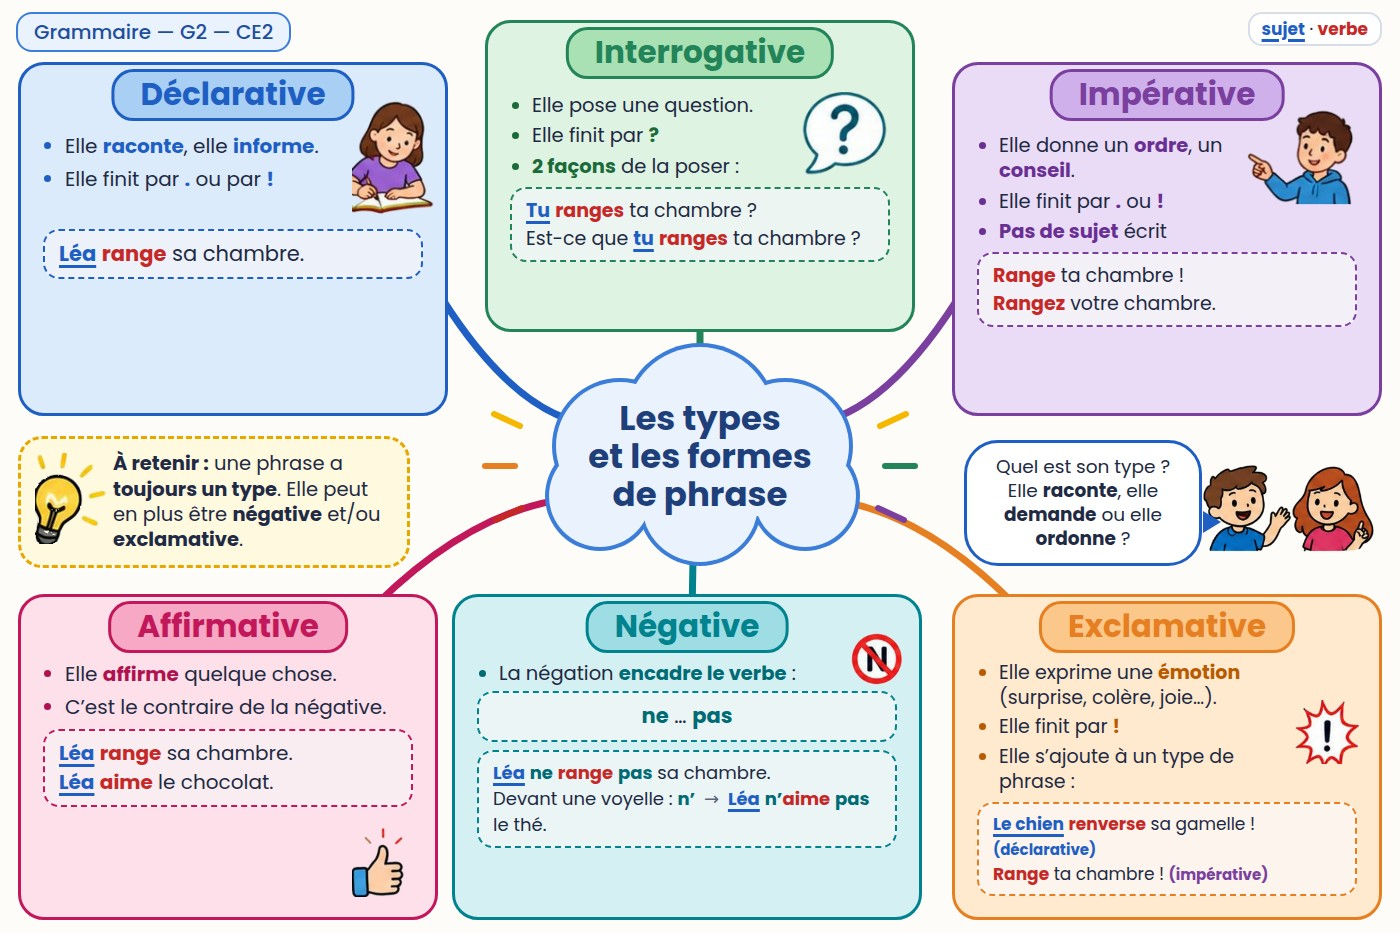
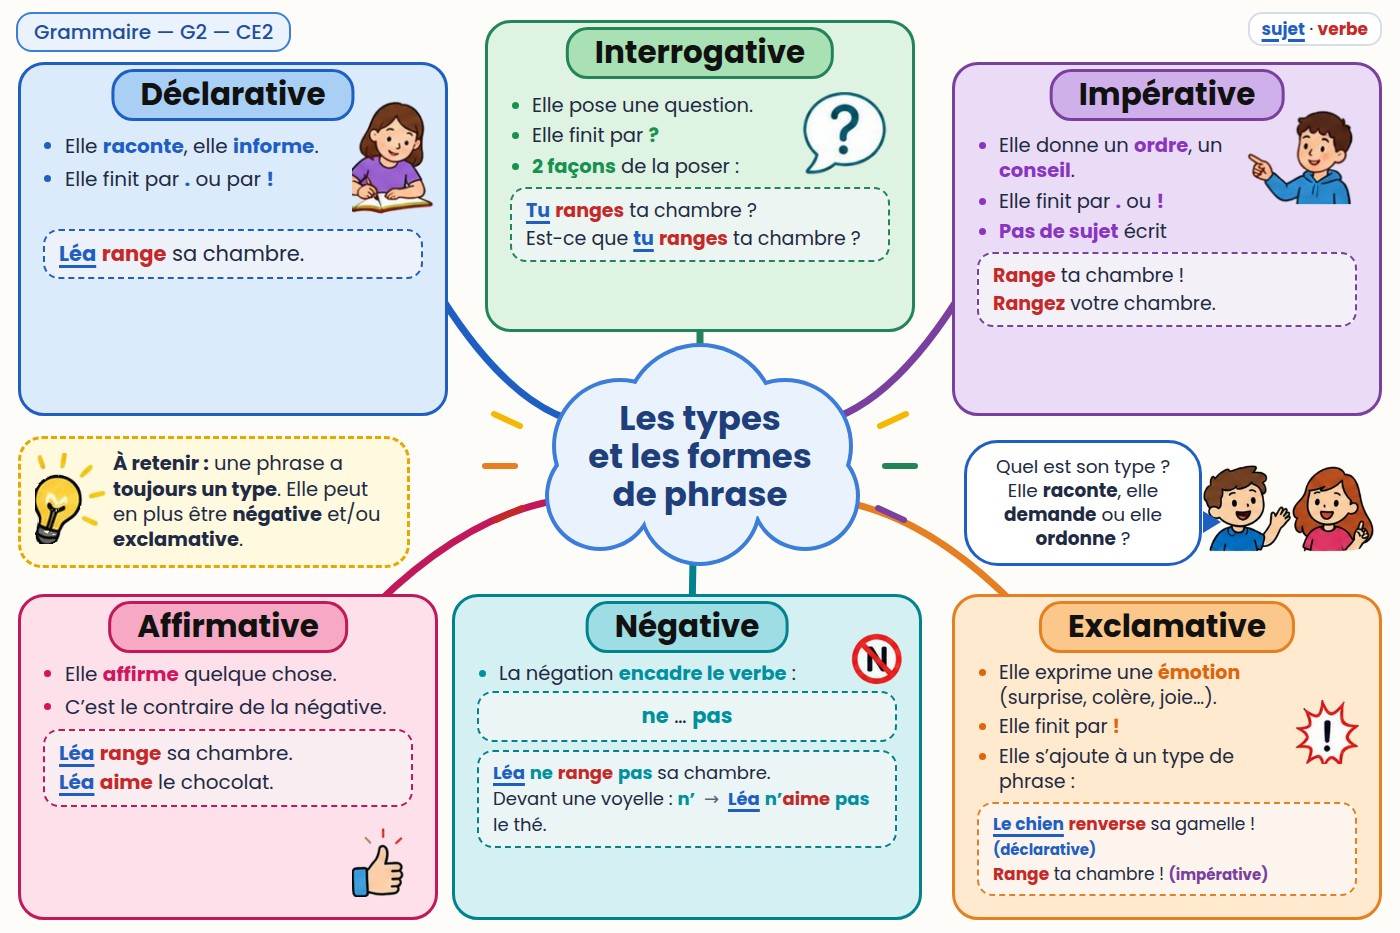
G2 : titres des cadres en noir, mots forts en couleurs plus vives

diff --git a/outils/common.css b/outils/common.css
@@ -57,3 +57,4 @@ table.cj td{padding:1px 10px 1px 0;white-space:nowrap}
 .box.tint b{color:var(--k)}
 .box.tint li::marker{color:var(--k)}
 .box.tint .ex{background:color-mix(in srgb,var(--c) 8%,#fff)}
+.box.tint h2{color:#111}

diff --git a/outils/lecons/g2_cartes.py b/outils/lecons/g2_cartes.py
@@ -13,9 +13,9 @@ AFF = (18, 618, 420, 302); NEG = (452, 618, 470, 302); EXC = (952, 618, 430, 302
 EX = lambda s, fs=20: f'<div class="ex" style="font-size:{fs}px;line-height:1.45;margin-top:8px">{s}</div>'
 S, V = '<span class="s">{}</span>', '<span class="v">{}</span>'
 # couleurs aussi soutenues que sur G1 : (bordure, fond du cadre, fond du titre, mots forts)
-PALG = {'bleu': ('#1f5fc4', '#dcebfb', '#a9cff5', '#1f5fc4'), 'vert': ('#23845a', '#dff3e2', '#a9e0b4', '#1b6b3a'),
-        'violet': ('#7b3fa0', '#eadcf7', '#cfb0ea', '#6a2f93'), 'rose': ('#c2185b', '#fde0ea', '#f7a8c4', '#b0124f'),
-        'turquoise': ('#00838f', '#d5f0f2', '#9fdde4', '#006b75'), 'orange': ('#e67e22', '#ffeacf', '#fcc78a', '#b85a00')}
+PALG = {'bleu': ('#1f5fc4', '#dcebfb', '#a9cff5', '#1f5fc4'), 'vert': ('#23845a', '#dff3e2', '#a9e0b4', '#16914f'),
+        'violet': ('#7b3fa0', '#eadcf7', '#cfb0ea', '#8a35c0'), 'rose': ('#c2185b', '#fde0ea', '#f7a8c4', '#d4145f'),
+        'turquoise': ('#00838f', '#d5f0f2', '#9fdde4', '#00909e'), 'orange': ('#e67e22', '#ffeacf', '#fcc78a', '#e0640a')}
 
 
 def carte(lid, chip, niveau):
